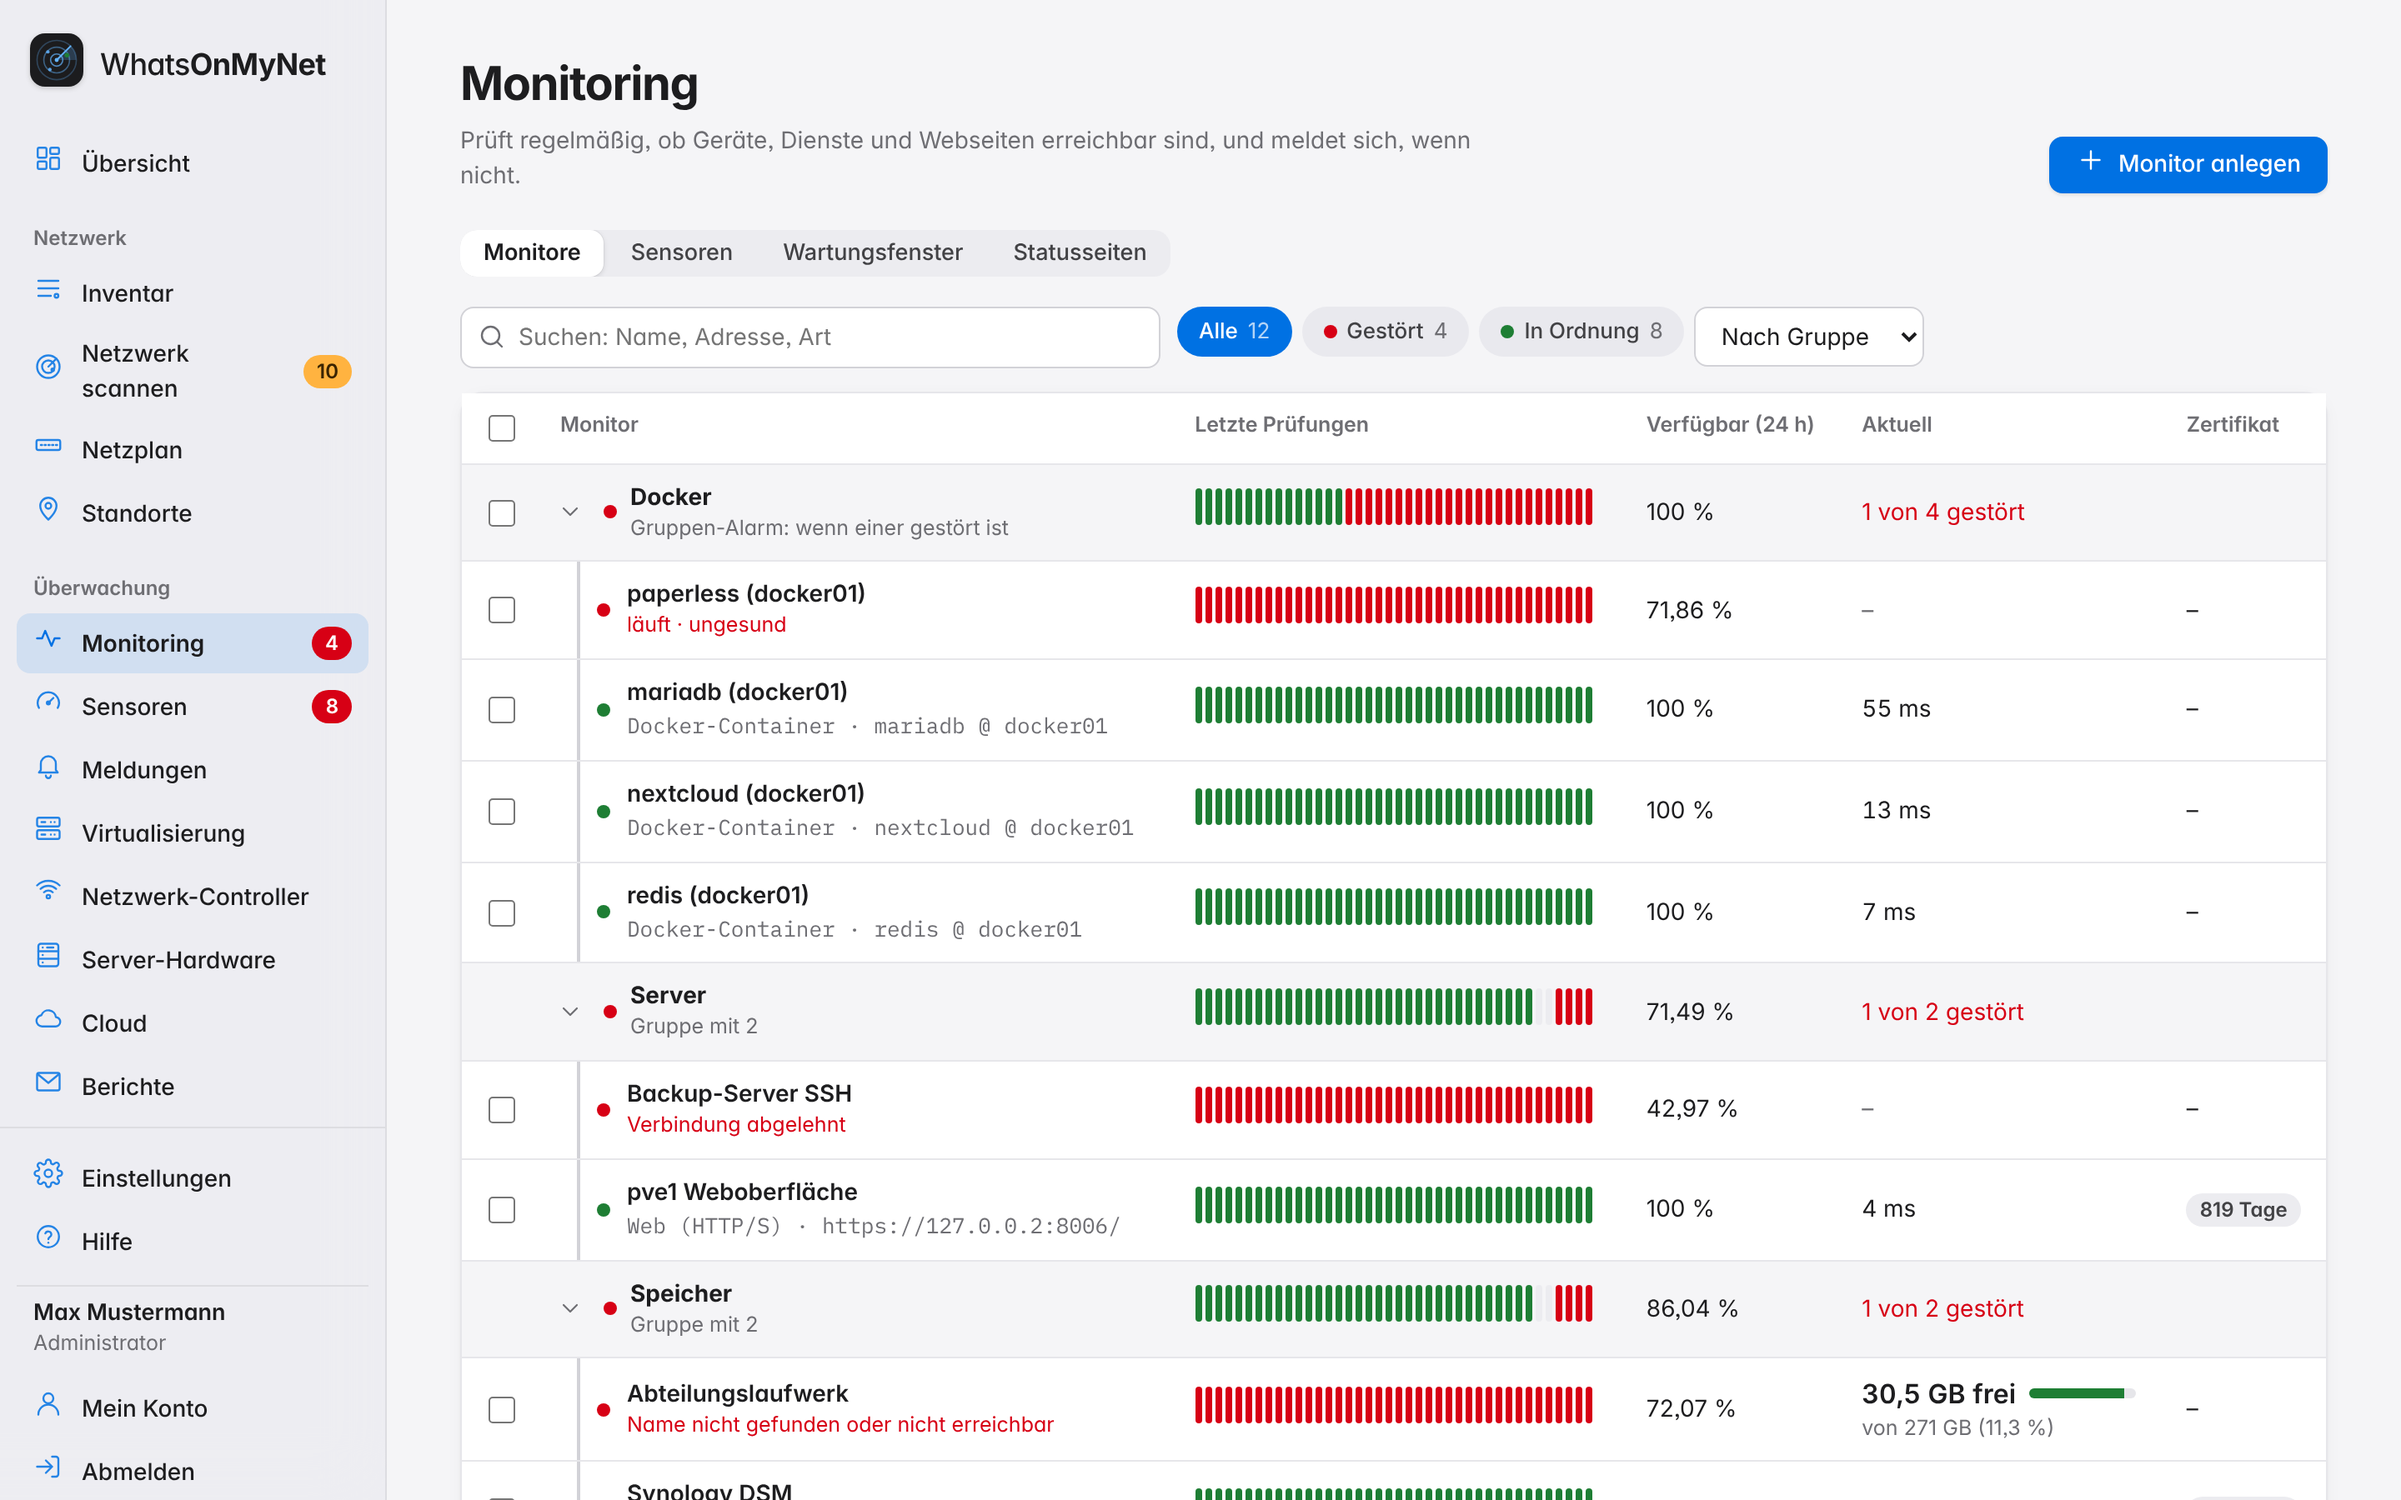
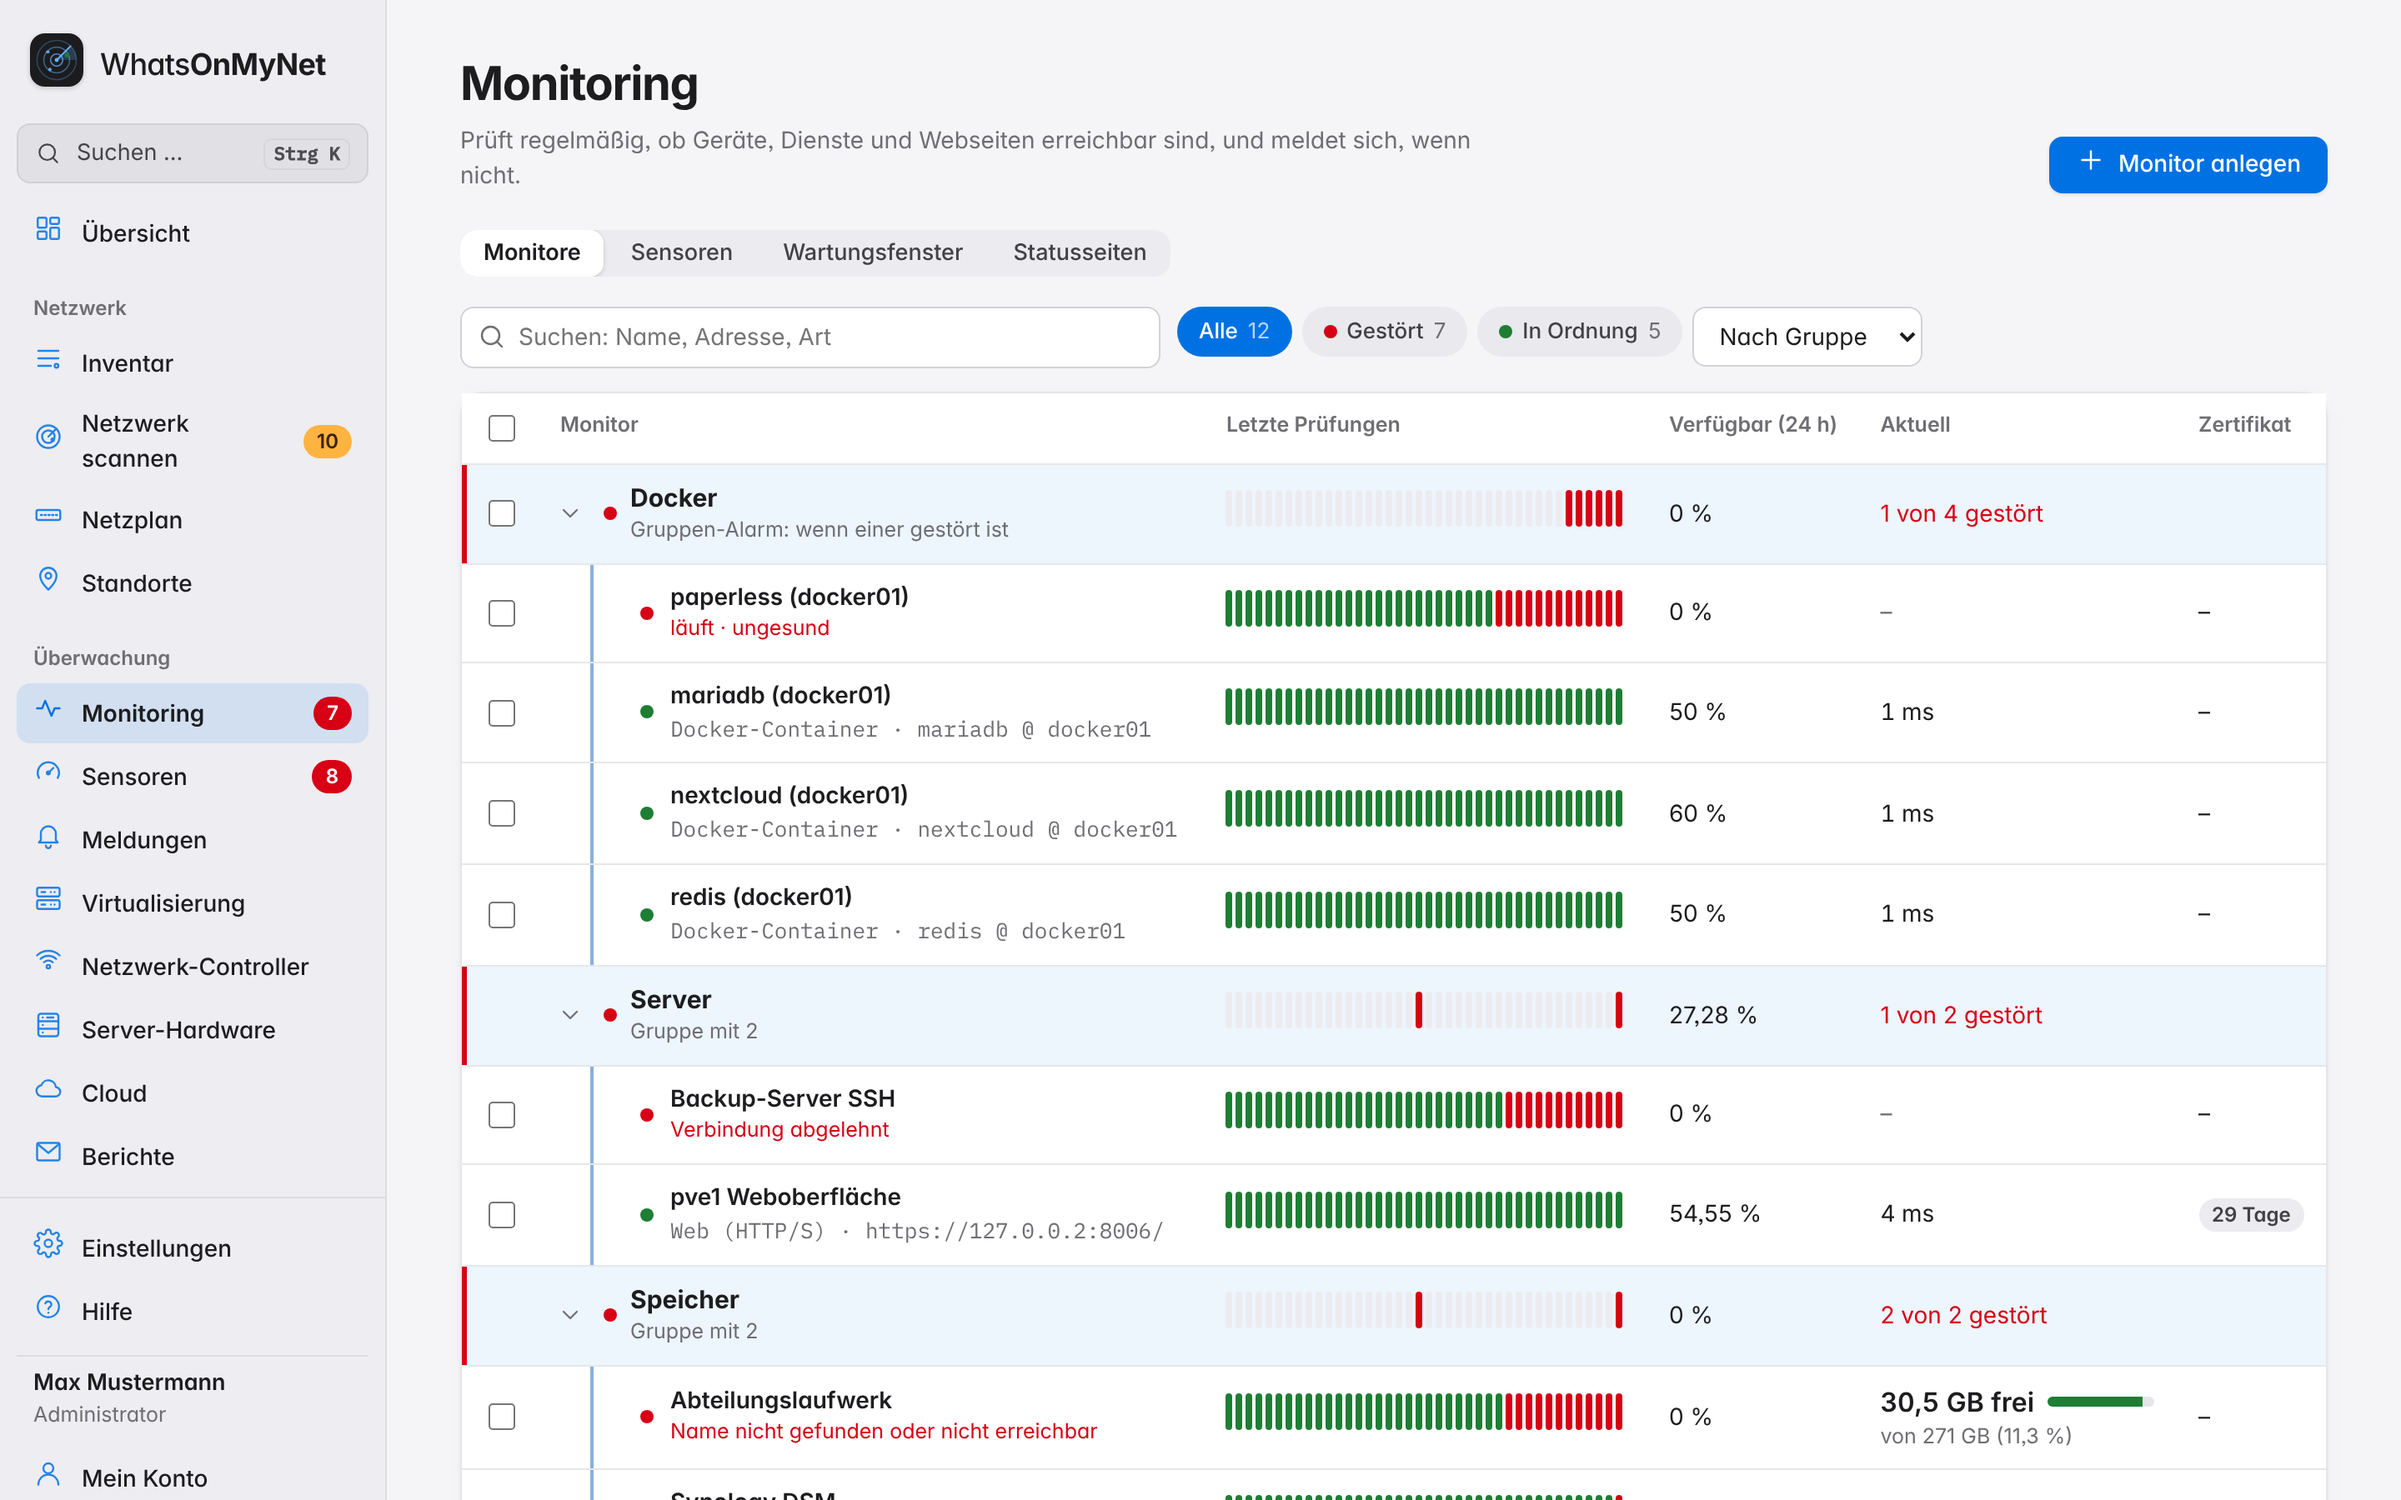
Monitoring by group: tinted group rows, members clearly indented
Group rows get a light accent tint and a bar on the left (red when a
member is down); member rows are indented further with a line in the
accent colour. Manual screenshots retaken; changelog numbers 0.57.0.

Claude-Session: https://claude.ai/code/session_01KwiqNkfKTWcDHdxycbtCqK

diff --git a/public/css/app.css b/public/css/app.css
@@ -890,12 +890,17 @@ dialog.modal.wide:has(.ev-noise) { width: min(980px, calc(100vw - 24px)); }
 .grp-toggle:hover { background: var(--bg-2); color: var(--ink); }
 .grp-toggle:focus-visible { outline: 2px solid var(--accent); outline-offset: 2px; }
 .grp-caret, .grp-caret svg { display: block; width: 16px; height: 16px; }
-/* Group rows like Uptime Kuma: the group is a row of its own, its members indented below with a line on the left */
-.data tr.grp-row td { background: var(--bg); border-top: 1px solid var(--line-2); }
-.data tr.grp-row .name { font-weight: 650; }
+/* Group rows like Uptime Kuma: the group is a row of its own - lightly tinted in the accent colour with a bar on the
+   left (red when something in it is down) - its members clearly indented below it with a line in the same colour */
+.data tr.grp-row td { background: color-mix(in srgb, var(--accent) 7%, var(--panel)); border-top: 1px solid var(--line-2); }
+.data tr.grp-row td:first-child { box-shadow: inset 3px 0 0 var(--accent); }
+.data tr.grp-row.grp-bad td:first-child { box-shadow: inset 3px 0 0 var(--bad); }
+.data tr.grp-row .name { font-weight: 650; font-size: 15px; }
+.data tr.grp-row.sel td { background: var(--accent-soft); }
 .grp-name { display: flex; gap: 8px; align-items: center; margin-left: -6px; }
-.data tr.grp-child td.mon-name { padding-left: 34px; position: relative; }
-.data tr.grp-child td.mon-name::before { content: ''; position: absolute; left: 22px; top: 0; bottom: 0; border-left: 2px solid var(--line-2); }
+.data tr.grp-child td.mon-name { padding-left: 60px; position: relative; }
+.data tr.grp-child td.mon-name::before { content: ''; position: absolute; left: 30px; top: 0; bottom: 0; border-left: 2px solid color-mix(in srgb, var(--accent) 35%, var(--line-2)); }
+@media (max-width: 640px) { .data tr.grp-child td.mon-name { padding-left: 40px; } .data tr.grp-child td.mon-name::before { left: 20px; } }
 .ev-transport { font: 600 10px/1.6 var(--mono); letter-spacing: .02em; }
 .ev-noise-gone > summary { cursor: pointer; padding: 6px 0; font-weight: 600; }
 .ev-noise .num { text-align: right; font-variant-numeric: tabular-nums; }

diff --git a/public/js/changelog.js b/public/js/changelog.js
@@ -3,6 +3,11 @@
 // under its version number (see whatsNew in views/about.js). At the next release they get their number here.
 export const CHANGELOG = [
   { version: 'next', de: [
+    'Monitoring nach Gruppe: Gruppenzeilen sind dezent eingefärbt und haben links einen Balken (rot, wenn etwas gestört ist); ihre Monitore stehen deutlich eingerückt darunter',
+  ], en: [
+    'Monitoring by group: group rows are lightly tinted and have a bar on the left (red when something is down); their monitors stand clearly indented below',
+  ] },
+  { version: '0.57.0', date: '2026-11-24', de: [
     'Scan-Agenten: Je Agent wählbar, welche SNMP-Zugangsdaten er bekommt – keine (nur „public“), eigene nur für seinen Standort (verschlüsselt gespeichert) oder alle dieses Servers. Neue Agenten starten ohne; bestehende behalten vorerst alle und sind in der Liste markiert – am besten auf eigene umstellen',
     'Monitore von Nicht-Administratoren: Hostnamen werden bei jeder Prüfung neu aufgelöst und geprüft, und die Prüfung geht genau an die geprüfte Adresse – zeigt ein Name später auf den WhatsOnMyNet-Rechner oder ein fremdes Netz (DNS-Rebinding), meldet der Monitor „Zieladresse nicht erlaubt“. Auch die Web-Adresse eines Geräts folgt dieser Regel, und automatisch angelegte Monitore gehen nie an den WhatsOnMyNet-Rechner selbst',
     'Wiederherstellen einer Sicherung: Auch Rollen und Standort-Beschränkungen der Benutzer und die SNMP-Auswahl der Agenten bleiben auf dem heutigen Stand – ein seither herabgestufter Benutzer bekommt seine alten Rechte nicht zurück',

diff --git a/CHANGELOG.md b/CHANGELOG.md
@@ -6,6 +6,10 @@ Was sich in WhatsOnMyNet geändert hat - dieselben Texte wie im Programm unter *
 
 ## Nächste Version (noch nicht veröffentlicht)
 
+- Monitoring nach Gruppe: Gruppenzeilen sind dezent eingefärbt und haben links einen Balken (rot, wenn etwas gestört ist); ihre Monitore stehen deutlich eingerückt darunter
+
+## 0.57.0 - 2026-11-24
+
 - Scan-Agenten: Je Agent wählbar, welche SNMP-Zugangsdaten er bekommt – keine (nur „public“), eigene nur für seinen Standort (verschlüsselt gespeichert) oder alle dieses Servers. Neue Agenten starten ohne; bestehende behalten vorerst alle und sind in der Liste markiert – am besten auf eigene umstellen
 - Monitore von Nicht-Administratoren: Hostnamen werden bei jeder Prüfung neu aufgelöst und geprüft, und die Prüfung geht genau an die geprüfte Adresse – zeigt ein Name später auf den WhatsOnMyNet-Rechner oder ein fremdes Netz (DNS-Rebinding), meldet der Monitor „Zieladresse nicht erlaubt“. Auch die Web-Adresse eines Geräts folgt dieser Regel, und automatisch angelegte Monitore gehen nie an den WhatsOnMyNet-Rechner selbst
 - Wiederherstellen einer Sicherung: Auch Rollen und Standort-Beschränkungen der Benutzer und die SNMP-Auswahl der Agenten bleiben auf dem heutigen Stand – ein seither herabgestufter Benutzer bekommt seine alten Rechte nicht zurück

diff --git a/CHANGELOG.en.md b/CHANGELOG.en.md
@@ -6,6 +6,10 @@ What changed in WhatsOnMyNet - the same texts the program shows under *About Wha
 
 ## Next version (not released yet)
 
+- Monitoring by group: group rows are lightly tinted and have a bar on the left (red when something is down); their monitors stand clearly indented below
+
+## 0.57.0 - 2026-11-24
+
 - Scan agents: per agent you choose which SNMP access data it gets – none (only "public"), its own for its location only (stored encrypted) or all of this server. New agents start with none; existing ones keep all for now and are marked in the list – best switch them to their own
 - Monitors of non-administrators: host names are resolved and checked again on every check, and the check contacts exactly the checked address – if a name later points at the WhatsOnMyNet host or another network (DNS rebinding), the monitor reports "target address not allowed". The web address of a device follows this rule too, and monitors made automatically never go to the WhatsOnMyNet host itself
 - Restoring a backup: the roles and location limits of users and the SNMP choice of agents stay as they are today too – a user demoted since does not get the old rights back
